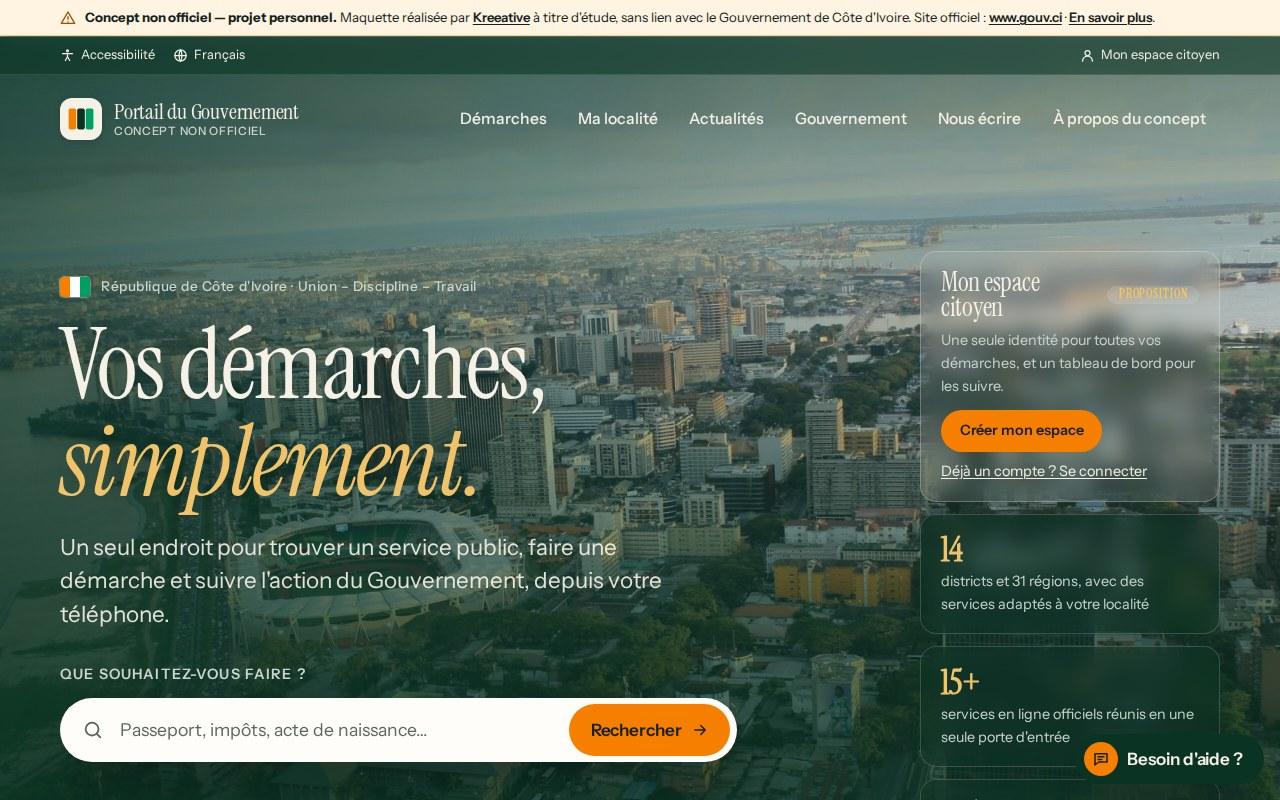
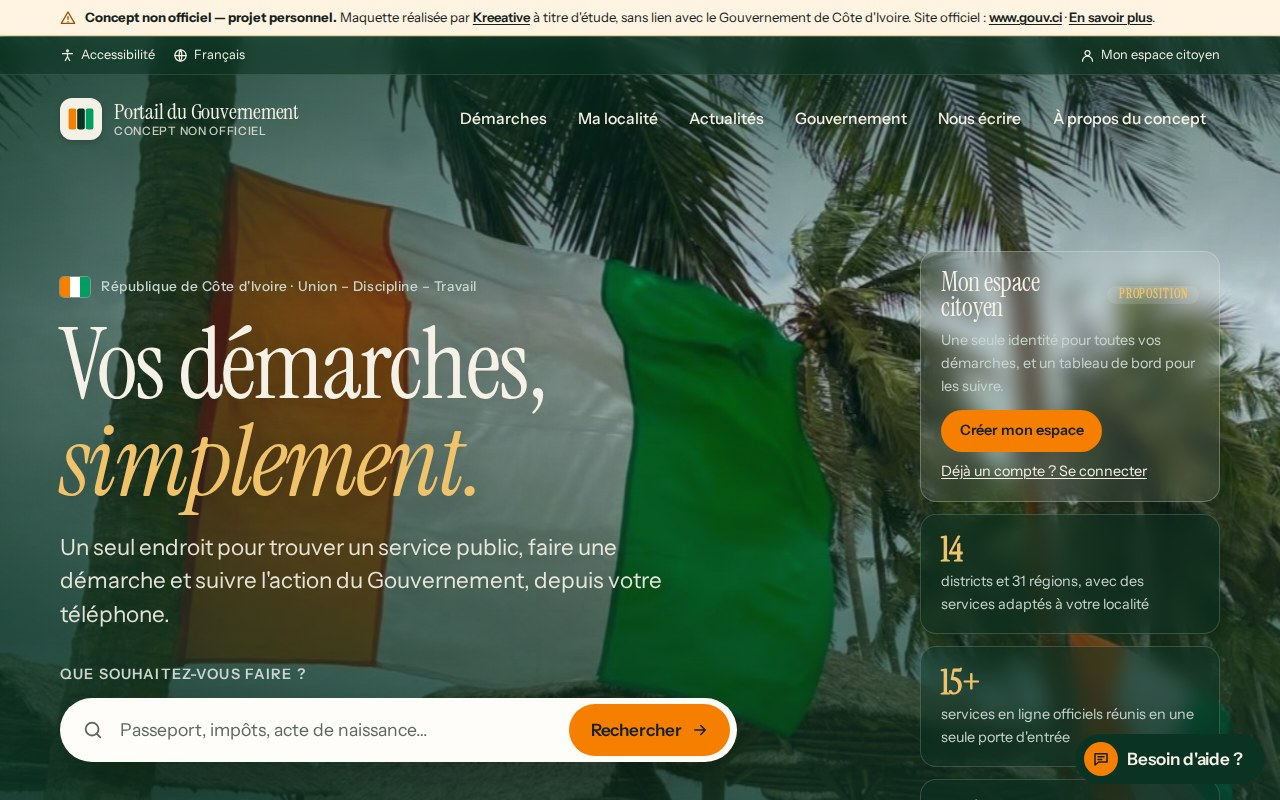
Photos de l'autrice : drapeau en hero, bande lagune, crédits mis à jour
- Hero : drapeau ivoirien en bord de mer, recadrage paysage 1600×900 sur
  ordinateur et portrait 960×1280 sur mobile via <picture>
- Nouvelle bande photographique plein écran (lagune) avant la carte des
  districts : « Des lagunes aux savanes, un même service public. »
- Une des actualités : vue aérienne du Plateau (Wikimedia Commons, CC0)
- Crédits photos mis à jour (index, À propos, README), photos non
  utilisées retirées

Claude-Session: https://claude.ai/code/session_01F8s2YPks3d8GauE4svLiS3

diff --git a/index.html b/index.html
@@ -106,7 +106,10 @@
   <!-- Hero cinématique : une photo, une phrase, une recherche -->
   <section class="hero on-dark" aria-labelledby="hero-title">
     <div class="hero__media" aria-hidden="true">
-      <img src="assets/img/hero-plateau-1920.jpg" srcset="assets/img/hero-plateau-960.jpg 960w, assets/img/hero-plateau-1920.jpg 1920w" sizes="100vw" alt="" fetchpriority="high" decoding="async">
+      <picture>
+        <source media="(max-width: 47.99em)" srcset="assets/img/hero-drapeau-960.jpg">
+        <img src="assets/img/hero-drapeau-1600.jpg" alt="" fetchpriority="high" decoding="async">
+      </picture>
     </div>
     <div class="container hero__inner">
       <div>
@@ -158,7 +161,7 @@
         <div class="hero__stat"><strong>24/7</strong><span>sur tous les écrans<span class="hero__stat-more">, à toute heure, sans application à installer</span></span></div>
       </aside>
     </div>
-    <p class="hero__credit">Photo&nbsp;: Le Plateau, Abidjan — <a href="https://commons.wikimedia.org/wiki/File:Abidjan_Plateau.png">Wikimedia Commons</a>, CC0</p>
+    <p class="hero__credit">Photo&nbsp;: drapeau ivoirien, bord de mer — © l'autrice du concept</p>
   </section>
 
   <!-- Flash infos : bande orange, format concis conservé du portail actuel -->
@@ -250,6 +253,20 @@
         <li><a href="https://data.gouv.ci/"><svg aria-hidden="true" focusable="false"><use href="#i-wifi"/></svg> Numérique et données</a></li>
       </ul>
     </div>
+  </section>
+
+  <!-- Bande photographique : un pays, un portail -->
+  <section class="interlude on-dark reveal" aria-label="Des lagunes aux savanes, un même service public">
+    <picture>
+      <source media="(max-width: 47.99em)" srcset="assets/img/interlude-lagune-960.jpg">
+      <img src="assets/img/interlude-lagune-1600.jpg" alt="" loading="lazy" decoding="async">
+    </picture>
+    <div class="container interlude__inner">
+      <p class="eyebrow">Un pays, un portail</p>
+      <p class="interlude__text">Des lagunes aux savanes, <em>un même service public.</em></p>
+      <p class="interlude__sub">Le même niveau de service pour chaque citoyen, où qu'il vive, sur téléphone comme au guichet.</p>
+    </div>
+    <p class="interlude__credit">Photo&nbsp;: lagune, Côte d'Ivoire — © l'autrice du concept</p>
   </section>
 
   <!-- Près de chez vous : carte interactive des districts -->
@@ -350,7 +367,7 @@
       </div>
       <div class="news">
         <article class="news__feature on-dark reveal">
-          <img src="assets/img/abidjan-nuit-1280.jpg" alt="" loading="lazy" decoding="async">
+          <img src="assets/img/hero-plateau-960.jpg" alt="" loading="lazy" decoding="async">
           <span class="tag">À la une · Société</span>
           <h3><a href="https://www.gouv.ci/actualite/eau-potable-a-zandanakaha-leau-a-portee-de-main-3645">Eau potable&nbsp;: à Zandanakaha, l'eau à portée de main</a></h3>
           <time datetime="2026-09-28">Lundi 28 septembre 2026</time>
@@ -377,7 +394,7 @@
         <a class="btn btn--primary btn--sm" href="https://www.gouv.ci/uploads/publications/179019067632.pdf">Lire le communiqué <svg aria-hidden="true" focusable="false"><use href="#i-arrow"/></svg></a>
         <a class="btn btn--ghost btn--sm" href="https://www.gouv.ci/publications/documents/Conseils%20des%20Ministres">Tous les conseils</a>
       </div>
-      <p class="muted" style="font-size:.78rem;margin-top:.9rem">Photo&nbsp;: Le Plateau depuis le pont ADO, Edison McCullen — <a href="https://commons.wikimedia.org/wiki/File:Le_Plateau_depuis_le_Pont_ADO_%E2%80%93_Abidjan.jpg">Wikimedia Commons</a>, CC BY 4.0.</p>
+      <p class="muted" style="font-size:.78rem;margin-top:.9rem">Photo&nbsp;: Le Plateau, Abidjan — <a href="https://commons.wikimedia.org/wiki/File:Abidjan_Plateau.png">Wikimedia Commons</a>, CC0.</p>
     </div>
   </section>
 

diff --git a/assets/css/styles.css b/assets/css/styles.css
@@ -319,8 +319,9 @@ main:focus { outline: none; }
   background: var(--forest);
 }
 .hero__media { position: absolute; inset: 0; z-index: -2; overflow: hidden; }
+.hero__media picture { display: block; position: absolute; inset: 0; }
 .hero__media img {
-  width: 100%; height: 100%; object-fit: cover; object-position: 55% 45%; display: block;
+  width: 100%; height: 100%; object-fit: cover; object-position: 50% 50%; display: block;
   transform-origin: 60% 40%; animation: kenburns 28s ease-out forwards;
 }
 .hero__media::after {
@@ -491,6 +492,17 @@ main:focus { outline: none; }
 .themes a:hover { background: var(--forest); color: var(--cream); border-color: var(--forest); transform: translateY(-2px); }
 .themes svg { width: 20px; height: 20px; color: var(--orange-2); transition: color 0.2s ease; }
 .themes a:hover svg { color: var(--gold); }
+
+/* 6.4b Bande photographique plein écran */
+.interlude { position: relative; isolation: isolate; min-height: clamp(420px, 62vh, 660px); display: flex; align-items: center; color: var(--cream); overflow: hidden; background: var(--forest); }
+.interlude picture { display: block; position: absolute; inset: 0; z-index: -2; }
+.interlude img { width: 100%; height: 100%; object-fit: cover; object-position: center; display: block; }
+.interlude::after { content: ""; position: absolute; inset: 0; z-index: -1; background: linear-gradient(90deg, rgba(10, 51, 35, 0.85) 0%, rgba(10, 51, 35, 0.5) 50%, rgba(10, 51, 35, 0.15) 100%), linear-gradient(180deg, rgba(10, 51, 35, 0.15) 0%, rgba(10, 51, 35, 0.55) 100%); }
+.interlude__inner { position: relative; padding-block: clamp(3.5rem, 8vw, 6rem); }
+.interlude__text { font-family: var(--f-display); font-size: clamp(2.3rem, 1.6rem + 3.2vw, 4.6rem); line-height: 1.02; letter-spacing: -0.02em; max-width: 15ch; margin: 0.6rem 0 1rem; text-shadow: 0 2px 30px rgba(0, 0, 0, 0.3); }
+.interlude__text em { color: var(--gold); }
+.interlude__sub { max-width: 44ch; color: var(--muted-on-dark); font-size: var(--t-md); margin: 0; }
+.interlude__credit { position: absolute; right: var(--gutter); bottom: 0.8rem; font-size: 0.7rem; color: rgba(246, 241, 231, 0.65); margin: 0; z-index: 1; }
 
 /* 6.5 Carte des districts */
 .map-section { background: var(--forest); color: var(--cream); position: relative; overflow: hidden; }

diff --git a/a-propos.html b/a-propos.html
@@ -229,8 +229,8 @@
         <p>Ce concept est un projet personnel d'Anne-Kelly Kouyaté, designer web ivoirienne et fondatrice de <a href="https://kreeative.xyz">Kreeative</a>, studio de design web et de branding basé à Toronto. Il n'est ni commandé, ni approuvé, ni hébergé par le Gouvernement de Côte d'Ivoire. Les noms, emblèmes et contenus cités appartiennent à leurs propriétaires respectifs&nbsp;; les titres d'actualité sont repris du portail officiel gouv.ci à titre d'illustration.</p>
         <h3>Crédits photos et données</h3>
         <ul>
-          <li>Vue aérienne du Plateau, Abidjan (hero)&nbsp;: <a href="https://commons.wikimedia.org/wiki/File:Abidjan_Plateau.png">Wikimedia Commons</a>, CC0.</li>
-          <li>Le Plateau depuis le pont ADO, de nuit (actualités)&nbsp;: Edison McCullen, <a href="https://commons.wikimedia.org/wiki/File:Le_Plateau_depuis_le_Pont_ADO_%E2%80%93_Abidjan.jpg">Wikimedia Commons</a>, CC BY 4.0.</li>
+          <li>Drapeau ivoirien en bord de mer (hero) et lagune (bande photographique)&nbsp;: photos de l'autrice du concept, tous droits réservés.</li>
+          <li>Vue aérienne du Plateau, Abidjan (actualités)&nbsp;: <a href="https://commons.wikimedia.org/wiki/File:Abidjan_Plateau.png">Wikimedia Commons</a>, CC0.</li>
           <li>Limites des districts&nbsp;: <a href="https://www.geoboundaries.org/">geoBoundaries</a> (ADM1, Côte d'Ivoire), CC BY 4.0, simplifiées pour l'affichage.</li>
           <li>Polices Instrument Serif et Instrument Sans&nbsp;: SIL Open Font License 1.1.</li>
         </ul>

diff --git a/README.md b/README.md
@@ -20,7 +20,7 @@
 
 - **Papier, forêt, orange** : un fond crème (`#F6F1E7`) qui évoque le papier et la lumière, un vert forêt profond (`#0A3323`) pour les grandes sections institutionnelles, l'orange du drapeau (`#F77F00`) en accent (recherche, repères, district sélectionné).
 - **Typographie éditoriale** : Instrument Serif pour les grands titres, Instrument Sans (variable) pour l'interface. Deux polices libres, auto-hébergées.
-- **Hero cinématique** : vue aérienne du Plateau (Abidjan) en plein écran, lent zoom, recherche en pilule posée sur la photo.
+- **Hero cinématique** : drapeau ivoirien en bord de mer en plein écran (recadrage paysage sur ordinateur, portrait sur mobile), lent zoom, recherche en pilule posée sur la photo. Une bande photographique plein écran (lagune) rythme la page avant la carte.
 - **Grille « bento »** pour les démarches, **carte interactive** des 14 districts (tracés réels simplifiés), **actualités façon magazine**, **signature typographique** en pied de page.
 - **Mouvement mesuré** : apparitions au défilement et micro-interactions, toutes désactivées si l'utilisateur préfère réduire les animations.
 
@@ -83,14 +83,14 @@ docs/screenshots/       # captures utilisées dans ce README
 - **Couleurs et typographie** : variables CSS en tête de `assets/css/styles.css` (`:root`).
 - **Démarches et services** : cartes dans `index.html` (section `#services`) et index de recherche `SERVICES` dans `assets/js/main.js`.
 - **Districts** : objet `DISTRICTS` dans `assets/js/main.js`, `<select id="district">` et tracés `<path data-district-path>` de la carte dans `index.html`.
-- **Photos** : remplacez les fichiers de `assets/img/` (hero en 1920 px et 960 px) et les crédits dans `a-propos.html`.
+- **Photos** : remplacez les fichiers de `assets/img/` (hero en 1600 × 900 et 960 × 1280, bande en 1600 × 800 et 960 × 1000) et les crédits dans `a-propos.html`.
 - **Actualités** : section `#actualites` dans `index.html` (titres repris du portail officiel le 29 septembre 2026, à titre d'illustration).
 
 ## Crédits et licences
 
 - Concept, design et code : Anne-Kelly Kouyaté, [Kreeative](https://kreeative.xyz) (Toronto), septembre 2026.
 - Polices Instrument Serif et Instrument Sans : [SIL Open Font License 1.1](assets/fonts/LICENSE-instrument-serif.txt).
-- Photo du hero (vue aérienne du Plateau, Abidjan) : [Wikimedia Commons](https://commons.wikimedia.org/wiki/File:Abidjan_Plateau.png), CC0. Photo des actualités (Le Plateau depuis le pont ADO) : Edison McCullen, [Wikimedia Commons](https://commons.wikimedia.org/wiki/File:Le_Plateau_depuis_le_Pont_ADO_%E2%80%93_Abidjan.jpg), CC BY 4.0.
+- Photos du hero (drapeau en bord de mer) et de la bande photographique (lagune) : autrice du concept, tous droits réservés. Photo des actualités (vue aérienne du Plateau, Abidjan) : [Wikimedia Commons](https://commons.wikimedia.org/wiki/File:Abidjan_Plateau.png), CC0.
 - Limites des districts : [geoBoundaries](https://www.geoboundaries.org/) (ADM1, Côte d'Ivoire), CC BY 4.0, simplifiées.
 - Les titres d'actualité, les noms de services et les liens cités appartiennent à leurs propriétaires respectifs (gouv.ci et administrations concernées).
 - Icônes : SVG originaux inclus dans les pages.
